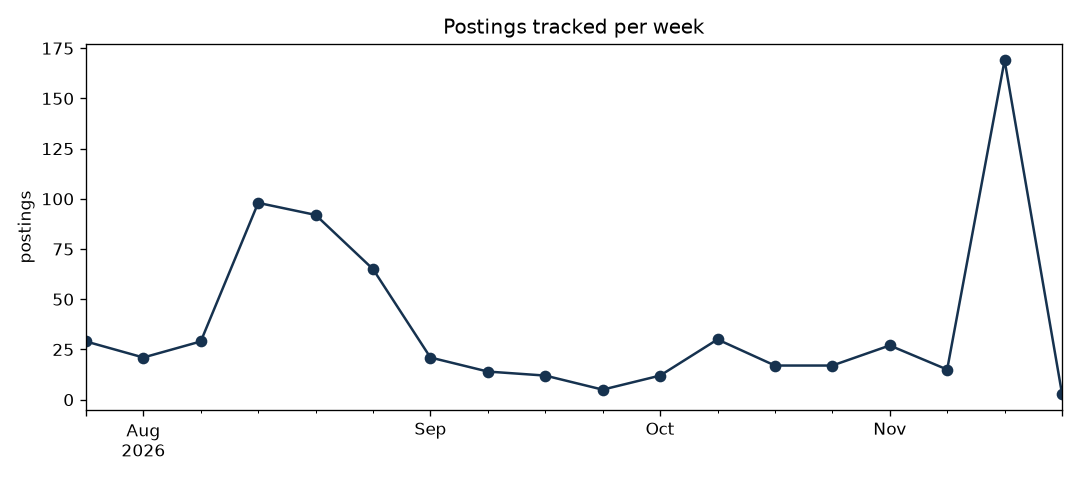
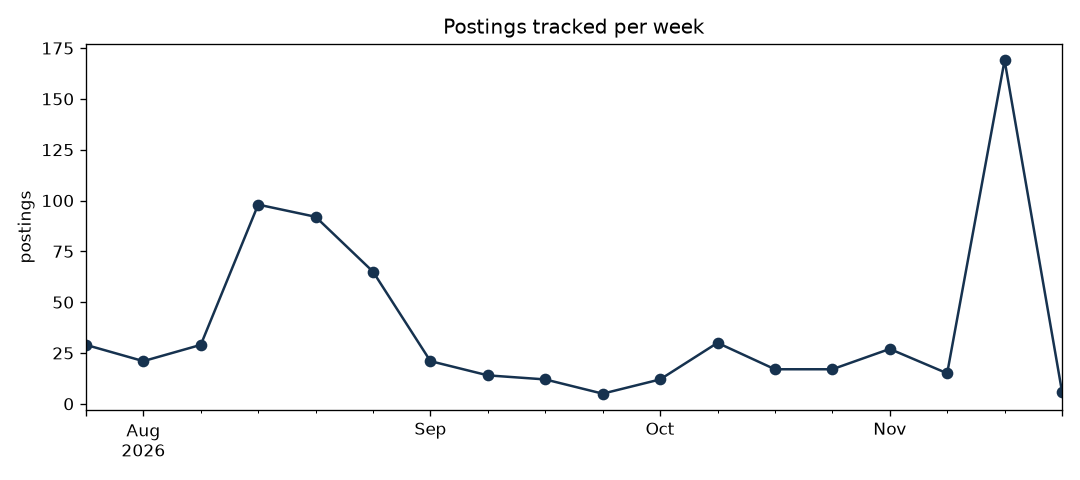
Daily data update

diff --git a/README.md b/README.md
@@ -13,13 +13,13 @@ reporting end to end.
 ## Dashboard
 
 <!-- dashboard:start -->
-*Last updated: 2026-11-24 00:35 UTC*
+*Last updated: 2026-11-24 22:54 UTC*
 
 | | |
 |---|---|
-| Postings tracked | 676 |
-| Companies | 476 |
-| New since last run | 15 |
+| Postings tracked | 679 |
+| Companies | 477 |
+| New since last run | 18 |
 | Data/ML-related share | 26% |
 
 ![Postings per week](reports/figures/postings_per_week.png)
